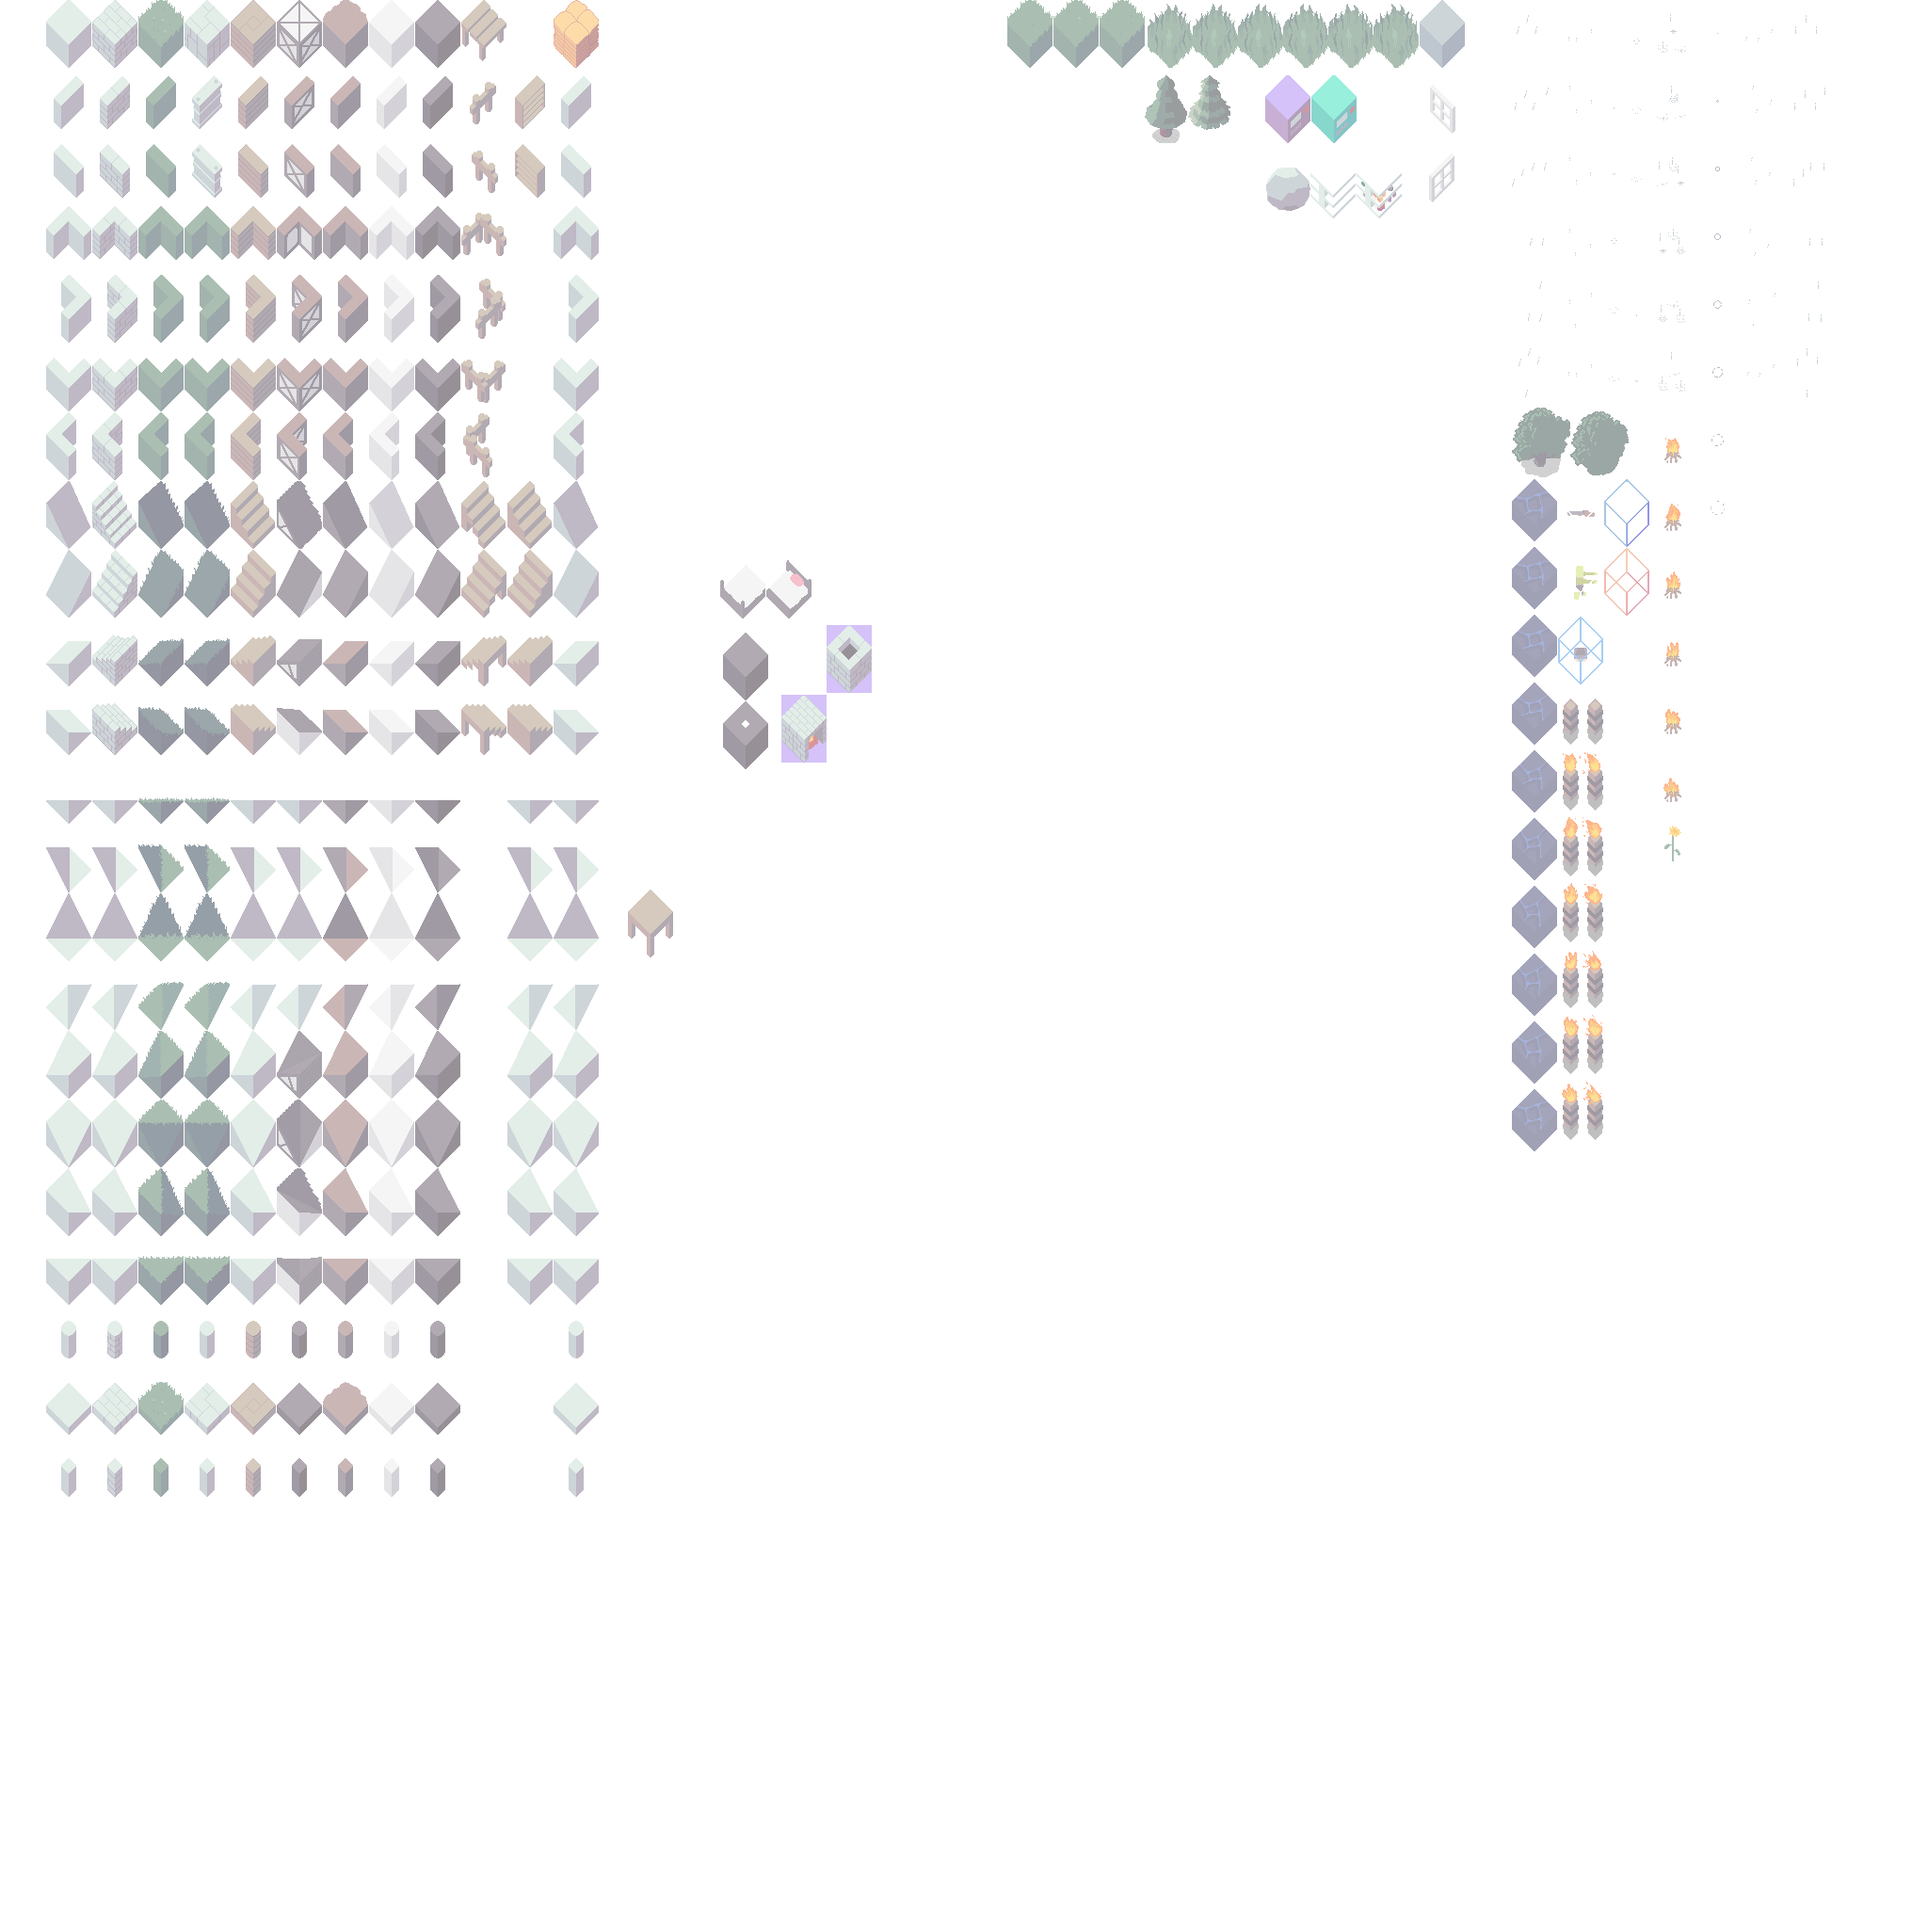
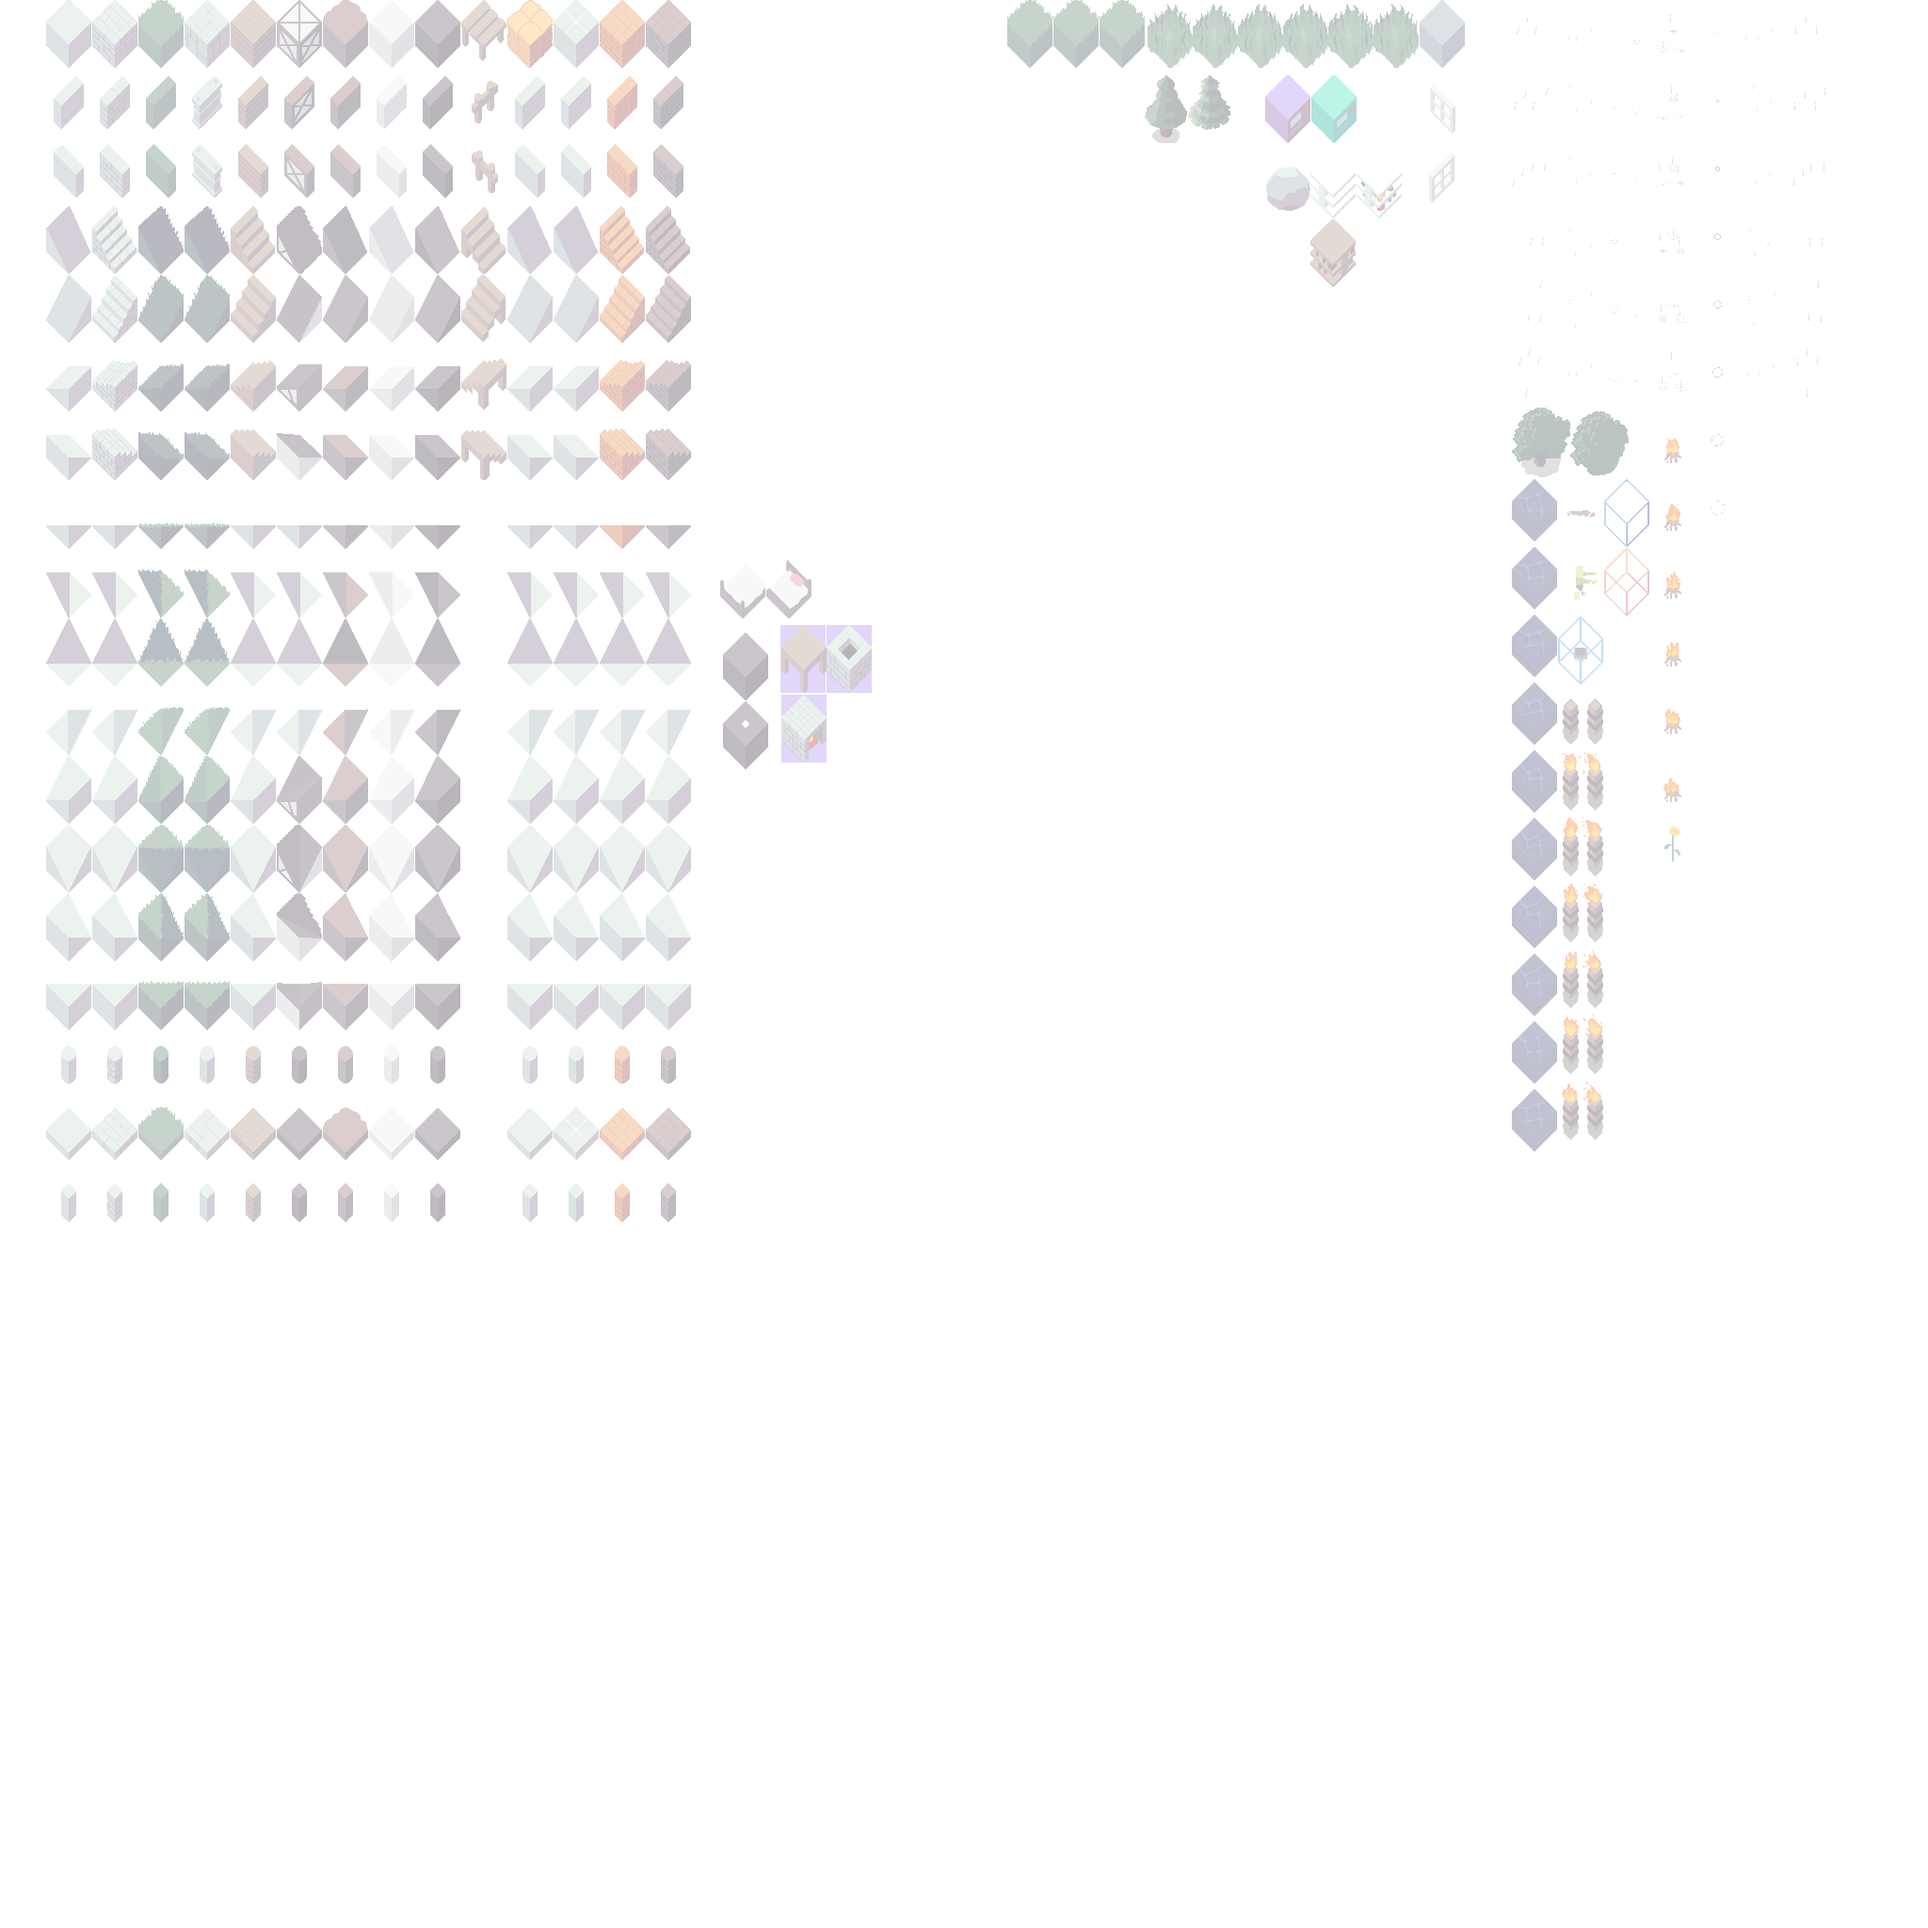
0.7.210

diff --git a/bleed-common/lib/src/item_type.dart b/bleed-common/lib/src/item_type.dart
@@ -93,6 +93,7 @@ class ItemType {
   static const GameObjects_Washing_Machine      = Index_GameObjects + 30;
   static const GameObjects_Car_Tire             = Index_GameObjects + 31;
   static const GameObjects_Van                  = Index_GameObjects + 32;
+  static const GameObjects_Computer             = Index_GameObjects + 33;
 
   static const Resource_Wood = Index_Resources + 5;
   static const Resource_Stone = Index_Resources + 6;
@@ -262,6 +263,7 @@ class ItemType {
     GameObjects_Sink,
     GameObjects_Washing_Machine,
     GameObjects_Van,
+    GameObjects_Computer,
   ].contains(value);
 
   static bool isInteractable(int value) => const [
@@ -708,6 +710,7 @@ class ItemType {
      GameObjects_Washing_Machine: "Washing Machine",
      GameObjects_Car_Tire: "Car Tire",
      GameObjects_Bottle: "Bottle",
+     GameObjects_Computer: "Computer",
   }[value] ?? "item-type-unknown($value)";
 
   static int getMaxQuantity(int itemType) => const {
@@ -771,19 +774,16 @@ class ItemType {
     Legs_Green          : 30,
   }[itemType] ??          00;
 
-  static bool hasCapacity(int itemType){
-    return getMaxQuantity(itemType) > 0;
-  }
+  static bool hasCapacity(int itemType) =>
+    getMaxQuantity(itemType) > 0;
 
-  static double getScopeDistance(int itemType){
-    return const <int, double> {
-        Weapon_Rifle_Arquebus: 1.25,
-        Weapon_Rifle_Blunderbuss: 1.33,
-        Weapon_Rifle_Musket: 1.5,
-        Weapon_Rifle_AK_47: 1.33,
-        Weapon_Rifle_Sniper: 3.0,
-    }[itemType] ?? 1.0;
-  }
+  static double getScopeDistance(int itemType) => const <int, double>{
+    Weapon_Rifle_Arquebus: 1.25,
+    Weapon_Rifle_Blunderbuss: 1.33,
+    Weapon_Rifle_Musket: 1.5,
+    Weapon_Rifle_AK_47: 1.33,
+    Weapon_Rifle_Sniper: 3.0,
+  }[itemType] ?? 1.0;
 
   static const HeadTypes = [
       Head_Swat,
@@ -830,6 +830,7 @@ class ItemType {
      GameObjects_Car_Tire,
      GameObjects_Bottle,
      GameObjects_Van,
+     GameObjects_Computer,
   ];
 
   static bool isTypeBarrel(int type)=> const [

diff --git a/bleed-server/lib/common/src/item_type.dart b/bleed-server/lib/common/src/item_type.dart
@@ -93,6 +93,7 @@ class ItemType {
   static const GameObjects_Washing_Machine      = Index_GameObjects + 30;
   static const GameObjects_Car_Tire             = Index_GameObjects + 31;
   static const GameObjects_Van                  = Index_GameObjects + 32;
+  static const GameObjects_Computer             = Index_GameObjects + 33;
 
   static const Resource_Wood = Index_Resources + 5;
   static const Resource_Stone = Index_Resources + 6;
@@ -262,6 +263,7 @@ class ItemType {
     GameObjects_Sink,
     GameObjects_Washing_Machine,
     GameObjects_Van,
+    GameObjects_Computer,
   ].contains(value);
 
   static bool isInteractable(int value) => const [
@@ -708,6 +710,7 @@ class ItemType {
      GameObjects_Washing_Machine: "Washing Machine",
      GameObjects_Car_Tire: "Car Tire",
      GameObjects_Bottle: "Bottle",
+     GameObjects_Computer: "Computer",
   }[value] ?? "item-type-unknown($value)";
 
   static int getMaxQuantity(int itemType) => const {
@@ -771,19 +774,16 @@ class ItemType {
     Legs_Green          : 30,
   }[itemType] ??          00;
 
-  static bool hasCapacity(int itemType){
-    return getMaxQuantity(itemType) > 0;
-  }
+  static bool hasCapacity(int itemType) =>
+    getMaxQuantity(itemType) > 0;
 
-  static double getScopeDistance(int itemType){
-    return const <int, double> {
-        Weapon_Rifle_Arquebus: 1.25,
-        Weapon_Rifle_Blunderbuss: 1.33,
-        Weapon_Rifle_Musket: 1.5,
-        Weapon_Rifle_AK_47: 1.33,
-        Weapon_Rifle_Sniper: 3.0,
-    }[itemType] ?? 1.0;
-  }
+  static double getScopeDistance(int itemType) => const <int, double>{
+    Weapon_Rifle_Arquebus: 1.25,
+    Weapon_Rifle_Blunderbuss: 1.33,
+    Weapon_Rifle_Musket: 1.5,
+    Weapon_Rifle_AK_47: 1.33,
+    Weapon_Rifle_Sniper: 3.0,
+  }[itemType] ?? 1.0;
 
   static const HeadTypes = [
       Head_Swat,
@@ -830,6 +830,7 @@ class ItemType {
      GameObjects_Car_Tire,
      GameObjects_Bottle,
      GameObjects_Van,
+     GameObjects_Computer,
   ];
 
   static bool isTypeBarrel(int type)=> const [

diff --git a/gamestream_flutter/lib/game_atlas.dart b/gamestream_flutter/lib/game_atlas.dart
@@ -31,6 +31,7 @@ class AtlasItems {
         ItemType.GameObjects_Car_Tire: 208,
         ItemType.GameObjects_Bottle: 83,
         ItemType.GameObjects_Van: 102,
+        ItemType.GameObjects_Computer: 204,
         ItemType.Trinket_Ring_of_Health: 256,
         ItemType.Trinket_Ring_of_Damage: 288,
         ItemType.Empty: 224,
@@ -122,6 +123,7 @@ class AtlasItems {
         ItemType.GameObjects_Car_Tire: 146,
         ItemType.GameObjects_Bottle: 81,
         ItemType.GameObjects_Van: 248,
+        ItemType.GameObjects_Computer: 206,
         ItemType.Trinket_Ring_of_Health: 32,
         ItemType.Trinket_Ring_of_Damage: 32,
         ItemType.Weapon_Ranged_Shotgun: 32,
@@ -206,6 +208,7 @@ class AtlasItems {
         ItemType.GameObjects_Car_Tire: 56,
         ItemType.GameObjects_Bottle: 18,
         ItemType.GameObjects_Van: 80,
+        ItemType.GameObjects_Computer: 37,
         ItemType.Weapon_Rifle_Sniper: 48,
         ItemType.Weapon_Flamethrower: 64,
         ItemType.Weapon_Special_Bazooka: 48,
@@ -238,6 +241,7 @@ class AtlasItems {
         ItemType.GameObjects_Sink: 33,
         ItemType.GameObjects_Van: 129,
         ItemType.GameObjects_Chair: 49,
+        ItemType.GameObjects_Computer: 68,
         ItemType.Weapon_Rifle_Sniper: 16,
         ItemType.Weapon_Special_Bazooka: 16,
         ItemType.Weapon_Special_Minigun: 12,
@@ -256,6 +260,7 @@ class AtlasItems {
         ItemType.GameObjects_Washing_Machine: 0.75,
         ItemType.GameObjects_Car_Tire: 0.5,
         ItemType.GameObjects_Bottle: 0.4,
+        ItemType.GameObjects_Computer: 0.61,
   }[itemType] ?? 1.0;
 
   static double getAnchorY(int itemType) => const <int, double> {

diff --git a/bleed-server/lib/src/engine.dart b/bleed-server/lib/src/engine.dart
@@ -1,4 +1,5 @@
 import 'dart:async';
+import 'dart:convert';
 import 'dart:io';
 
 import 'package:bleed_server/gamestream.dart';
@@ -22,6 +23,19 @@ import 'system.dart';
 
 final engine = Engine();
 
+Future<String> getPublicIP() async {
+  var httpClient = HttpClient();
+  var request = await httpClient.getUrl(Uri.parse('http://checkip.amazonaws.com/'));
+  var response = await request.close();
+
+  if (response.statusCode == HttpStatus.ok) {
+    var ip = await response.transform(utf8.decoder).join();
+    return ip.trim();
+  } else {
+    throw Exception('Failed to get public IP');
+  }
+}
+
 class Engine {
   final games = <Game>[];
   var frame = 0;
@@ -31,9 +45,9 @@ class Engine {
 
   Future run() async {
 
-    var addresses = await InternetAddress.lookup('localhost');
+    var addresses = await getPublicIP();
     if (addresses.isNotEmpty) {
-      print('ip-address: ${addresses.first.address}');
+      print('ip-address: $addresses');
     } else {
       print('ip-address:: Unable to get local IP address');
     }

diff --git a/gamestream_flutter/lib/game_network_config.dart b/gamestream_flutter/lib/game_network_config.dart
@@ -1,4 +1,5 @@
 
+
 class GameNetworkConfig {
   // CONSTANTS
   static const Url_Sydney = "https://gamestream-ws-sydney-osbmaezptq-ts.a.run.app";

diff --git a/bleed-common/lib/src/version.dart b/bleed-common/lib/src/version.dart
@@ -1,4 +1,4 @@
-const version = '0.7.209';
+const version = '0.7.210';
 
 
 

diff --git a/bleed-server/lib/common/src/version.dart b/bleed-server/lib/common/src/version.dart
@@ -1,4 +1,4 @@
-const version = '0.7.209';
+const version = '0.7.210';
 
 
 

diff --git a/gamestream_flutter/README.md b/gamestream_flutter/README.md
@@ -13,10 +13,10 @@ ctrl + w:   minimal mode
 [ ] feature weapon upgrades
 [ ] feature colored lights
 [ ] gameobject type tv
-[ ] gameobject type computer
 [ ] gameobject neon sign
 
 12.02.2023
+[x] gameobject type computer
 [x] feature hud total grenades
 [x] fix starting items
 [x] fix zombie death animation angle
